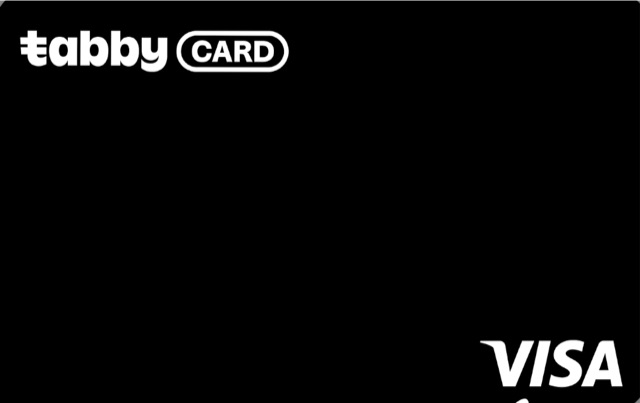
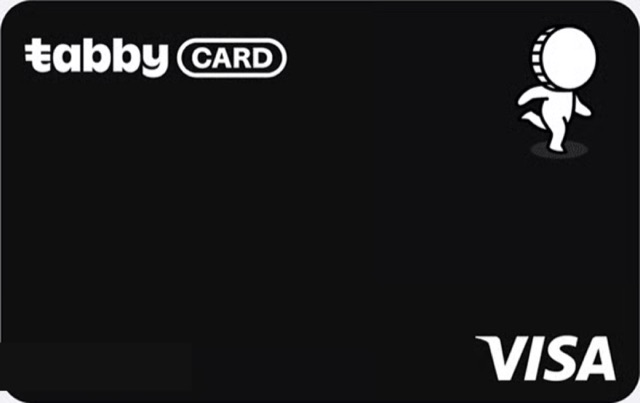
Add SIB, Arab Bank, Ajman, Ruya cards and a Card not found request; release 1.10 (15)

diff --git a/Ghaf/Screens/AccountsView.swift b/Ghaf/Screens/AccountsView.swift
@@ -218,6 +218,7 @@ struct GhafAccountEditorView: View {
     @State private var errorMessage = false
     @State private var showArchiveConfirmation = false
     @State private var cardDesign: GhafCardDesign?
+    @State private var showCardRequest = false
 
     private let currencies = ["AED", "SAR", "KWD", "BHD", "OMR", "QAR"]
 
@@ -347,6 +348,10 @@ struct GhafAccountEditorView: View {
         .onChange(of: GhafUAEBank.match([institution, name])?.id) { _, bank in
             if let design = cardDesign, design.bank != bank { cardDesign = nil }
         }
+        .sheet(isPresented: $showCardRequest) {
+            GhafCardRequestView(settings: settings,
+                                bank: GhafUAEBank.match([institution, name]).map { ar ? $0.ar : $0.en } ?? institution)
+        }
         .confirmationDialog(ar ? "أرشفة هذا الحساب؟" : "Archive this account?", isPresented: $showArchiveConfirmation,
                             titleVisibility: .visible) {
             Button(ar ? "أرشفة" : "Archive", role: .destructive) { archive() }
@@ -365,10 +370,30 @@ struct GhafAccountEditorView: View {
                 ForEach(GhafCardDesign.cards(for: GhafUAEBank.match([institution, name]))) { design in
                     designOption(design, label: design.title)
                 }
+                cardRequestTile
             }
             .padding(.horizontal, 2)
         }
         .scrollIndicators(.hidden)
+    }
+
+    /// Last tile: the user's card isn't in the catalog yet, so they can ask for it.
+    private var cardRequestTile: some View {
+        Button { showCardRequest = true } label: {
+            VStack(spacing: 6) {
+                RoundedRectangle(cornerRadius: 6, style: .continuous)
+                    .strokeBorder(theme.secondaryText.opacity(0.6), style: StrokeStyle(lineWidth: 1.5, dash: [5, 4]))
+                    .frame(width: 92, height: 58)
+                    .overlay { Image(systemName: "plus").font(.system(size: 18, weight: .semibold)).foregroundStyle(theme.accent) }
+                Text(ar ? "بطاقتك غير موجودة؟" : "Card not found?")
+                    .font(GhafTypography.body(10, languageCode: lang, weight: .semibold))
+                    .foregroundStyle(theme.secondaryText)
+                    .lineLimit(2).multilineTextAlignment(.center)
+                    .frame(width: 92)
+            }
+        }
+        .buttonStyle(.ghafPress)
+        .accessibilityHint(ar ? "اطلب إضافة تصميم بطاقتك" : "Ask for your card design to be added")
     }
 
     private func designOption(_ design: GhafCardDesign?, label: String) -> some View {
@@ -534,5 +559,126 @@ struct GhafAccountEditorView: View {
         }
         try? modelContext.save()
         dismiss()
+    }
+}
+
+/// Asks for a missing card design. The request goes out as an email the user sends themselves:
+/// nothing is uploaded and no card number is asked for.
+struct GhafCardRequestView: View {
+    @Environment(\.dismiss) private var dismiss
+    @Environment(\.openURL) private var openURL
+    @Environment(\.colorScheme) private var systemColorScheme
+    let settings: GhafSettings
+    @State var bank: String
+    @State private var cardName = ""
+    @State private var looks = ""
+    @State private var link = ""
+    @State private var copied = false
+
+    init(settings: GhafSettings, bank: String) {
+        self.settings = settings
+        _bank = State(initialValue: bank)
+    }
+
+    private var theme: GhafTheme {
+        GhafTheme.resolve(name: settings.themeName, appearanceMode: settings.appearanceMode,
+                          systemIsDark: systemColorScheme == .dark)
+    }
+    private var ar: Bool { settings.languageCode == "ar" }
+    private var lang: String { settings.languageCode }
+    private var canSend: Bool { !bank.trimmingCharacters(in: .whitespaces).isEmpty && !cardName.trimmingCharacters(in: .whitespaces).isEmpty }
+
+    var body: some View {
+        NavigationStack {
+            ScrollView {
+                VStack(spacing: 16) {
+                    Text(ar ? "أخبرنا عن بطاقتك وسنضيف تصميمها في تحديث قادم."
+                            : "Tell us about your card and we'll add its design in an update.")
+                        .font(GhafTypography.body(15, languageCode: lang))
+                        .foregroundStyle(theme.secondaryText)
+                        .multilineTextAlignment(.center)
+                        .padding(.top, 6)
+                    VStack(spacing: 0) {
+                        field(ar ? "البنك" : "Bank", text: $bank, prompt: ar ? "مثال: مصرف عجمان" : "e.g. Ajman Bank")
+                        field(ar ? "اسم البطاقة" : "Card name", text: $cardName, prompt: ar ? "مثال: بلاتينيوم" : "e.g. Platinum")
+                        field(ar ? "رابط (اختياري)" : "Link (optional)", text: $link, prompt: ar ? "صفحة البطاقة على موقع البنك" : "Card page on the bank's site", divider: false)
+                            .keyboardType(.URL).textInputAutocapitalization(.never).autocorrectionDisabled()
+                    }
+                    .padding(.horizontal, 16).padding(.vertical, 4)
+                    .ghafCard(theme: theme)
+                    VStack(alignment: .leading, spacing: 8) {
+                        Text(ar ? "كيف تبدو" : "How it looks")
+                            .font(GhafTypography.body(14, languageCode: lang, weight: .bold))
+                            .foregroundStyle(theme.secondaryText)
+                            .padding(.horizontal, 6)
+                        TextField(ar ? "الألوان والشعار والنقوش…" : "Colours, logo, pattern…", text: $looks, axis: .vertical)
+                            .lineLimit(3...6)
+                            .font(GhafTypography.body(16, languageCode: lang))
+                            .foregroundStyle(theme.primaryText)
+                            .padding(16)
+                            .ghafCard(theme: theme)
+                    }
+                    Label(ar ? "لا تكتب رقم بطاقتك أو أي بيانات خاصة." : "Don't include your card number or other private details.",
+                          systemImage: "lock.fill")
+                        .font(GhafTypography.body(12, languageCode: lang))
+                        .foregroundStyle(theme.secondaryText)
+                    if copied {
+                        Text(ar ? "لا يوجد تطبيق بريد. نسخنا التفاصيل لترسلها بالطريقة التي تفضلها."
+                                : "No mail app is set up. The details were copied so you can send them another way.")
+                            .font(GhafTypography.body(13, languageCode: lang, weight: .semibold))
+                            .foregroundStyle(theme.primaryText)
+                            .multilineTextAlignment(.center)
+                    }
+                }
+                .padding(.horizontal, GhafMetrics.gutter)
+                .padding(.bottom, 20)
+            }
+            .scrollDismissesKeyboard(.interactively)
+            .ghafBackground(theme: theme)
+            .tint(theme.accent)
+            .safeAreaInset(edge: .bottom) {
+                GhafDetailActionBar(theme: theme, languageCode: lang,
+                                    primaryTitle: ar ? "أرسل الطلب" : "Send request", primaryAction: send)
+                    .disabled(!canSend).opacity(canSend ? 1 : 0.5)
+            }
+            .navigationTitle(ar ? "طلب بطاقة" : "Request a card")
+            .navigationBarTitleDisplayMode(.inline)
+            .toolbar {
+                ToolbarItem(placement: .cancellationAction) { Button(ar ? "إلغاء" : "Cancel") { dismiss() } }
+            }
+            .ghafKeyboardDone()
+        }
+    }
+
+    private func field(_ label: String, text: Binding<String>, prompt: String, divider: Bool = true) -> some View {
+        HStack(spacing: 12) {
+            Text(label)
+                .font(GhafTypography.body(15, languageCode: lang))
+                .foregroundStyle(theme.secondaryText)
+                .frame(minWidth: 96, alignment: .leading)
+            TextField(prompt, text: text)
+                .font(GhafTypography.body(16, languageCode: lang, weight: .semibold))
+                .foregroundStyle(theme.primaryText)
+                .multilineTextAlignment(.trailing)
+        }
+        .frame(minHeight: 50)
+        .overlay(alignment: .bottom) { if divider { Divider().overlay(theme.outline) } }
+    }
+
+    private var details: String {
+        ["Bank: \(bank)", "Card: \(cardName)", looks.isEmpty ? nil : "Looks: \(looks)", link.isEmpty ? nil : "Link: \(link)"]
+            .compactMap { $0 }.joined(separator: "\n")
+    }
+
+    private func send() {
+        var mail = URLComponents()
+        mail.scheme = "mailto"
+        // shortcut: no recipient until Ghaf has a support address; the user fills it in Mail (same as Send feedback).
+        mail.queryItems = [URLQueryItem(name: "subject", value: "Ghaf card request: \(bank) \(cardName)"),
+                           URLQueryItem(name: "body", value: details)]
+        guard let url = mail.url else { return }
+        openURL(url) { accepted in
+            if accepted { dismiss() } else { UIPasteboard.general.string = details; copied = true }
+        }
     }
 }

diff --git a/CHANGELOG.md b/CHANGELOG.md
@@ -1,5 +1,15 @@
 # Changelog
 
+## 1.10 (15)
+
+### English
+- Real card designs from Sharjah Islamic Bank, Arab Bank, Ajman Bank and Ruya, and the true Tabby Card face.
+- Card not found? Ask for your card from the account editor: name it and describe how it looks, and we'll add it in an update.
+
+### العربية
+- تصاميم بطاقات حقيقية من مصرف الشارقة الإسلامي والبنك العربي ومصرف عجمان ورؤيا، وواجهة بطاقة تابي الحقيقية.
+- بطاقتك غير موجودة؟ اطلبها من شاشة تعديل الحساب: اكتب اسمها وصف شكلها، وسنضيفها في تحديث قادم.
+
 ## 1.9.2 (14)
 
 ### English
